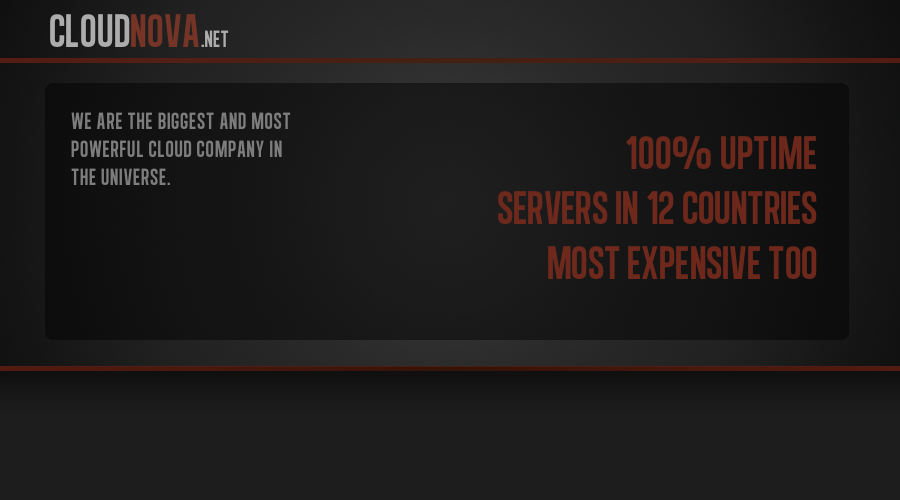
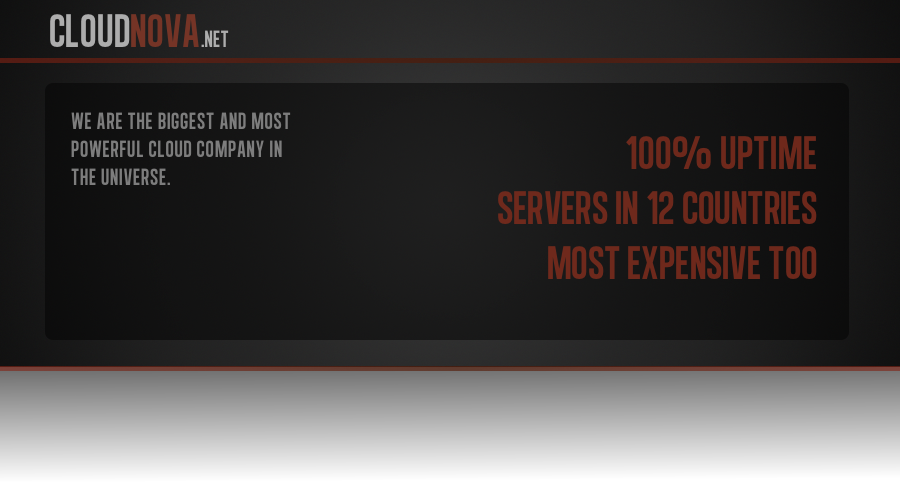
Updated drop shadow

Changed region(s): [[0.0, 0.72, 1.0, 1.0]]

diff --git a/client-php/new.html b/client-php/new.html
@@ -20,6 +20,8 @@ g/TR/xhtml1/DTD/xhtml1-transitional.dtd">
 }
 
 body {
+	background-repeat: repeat;
+	background-image: url(stripe.png);
 	margin: 0px;
 	padding: 0px;
 	background-color: #262626;
